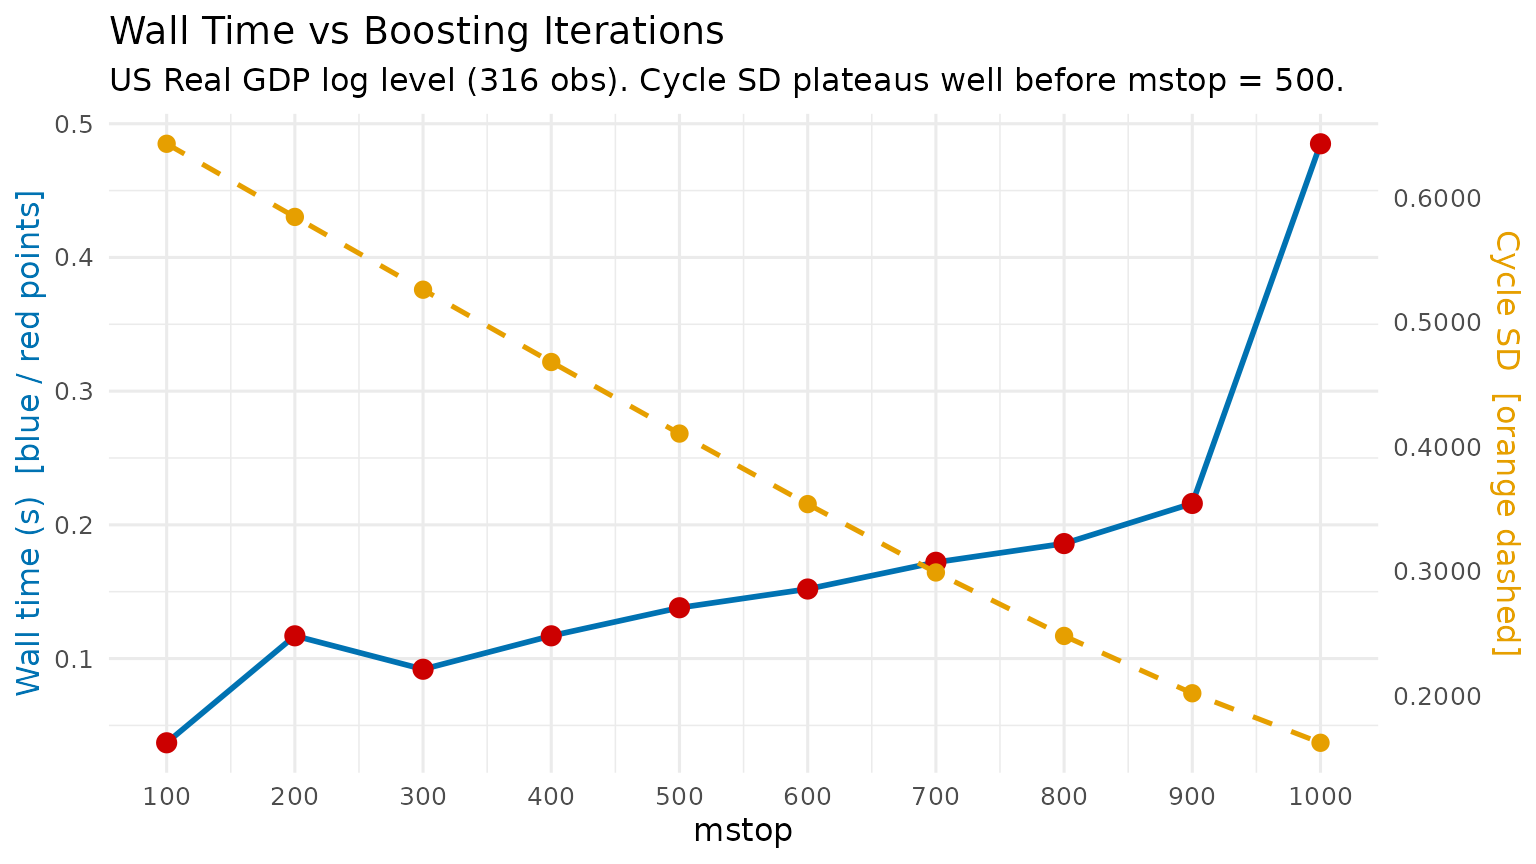
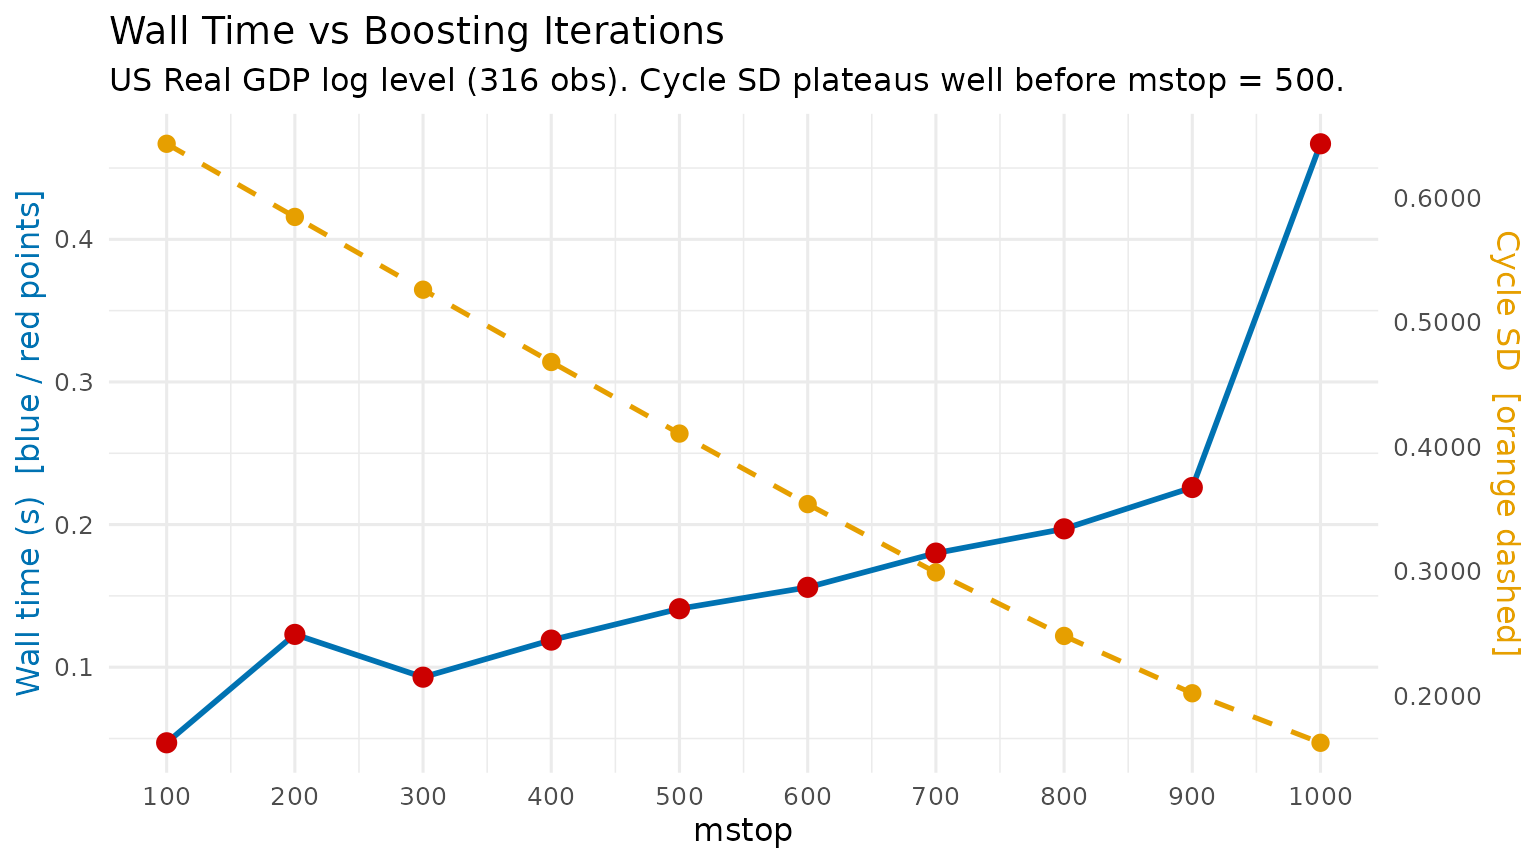
Deploying to gh-pages from @ michal0091/MacroFilters@11394b4d7b755e80bb9f119357e972726e6acea0 🚀

diff --git a/articles/tuning_mbh.html b/articles/tuning_mbh.html
@@ -336,52 +336,52 @@ boosting and the trend responds to the COVID shock.</li>
 <tbody>
 <tr class="odd">
 <td align="right">100</td>
-<td align="right">0.037</td>
+<td align="right">0.047</td>
 <td align="right">0.643260</td>
 </tr>
 <tr class="even">
 <td align="right">200</td>
-<td align="right">0.117</td>
+<td align="right">0.123</td>
 <td align="right">0.584503</td>
 </tr>
 <tr class="odd">
 <td align="right">300</td>
-<td align="right">0.092</td>
+<td align="right">0.093</td>
 <td align="right">0.526034</td>
 </tr>
 <tr class="even">
 <td align="right">400</td>
-<td align="right">0.117</td>
+<td align="right">0.119</td>
 <td align="right">0.467963</td>
 </tr>
 <tr class="odd">
 <td align="right">500</td>
-<td align="right">0.138</td>
+<td align="right">0.141</td>
 <td align="right">0.410462</td>
 </tr>
 <tr class="even">
 <td align="right">600</td>
-<td align="right">0.152</td>
+<td align="right">0.156</td>
 <td align="right">0.353805</td>
 </tr>
 <tr class="odd">
 <td align="right">700</td>
-<td align="right">0.172</td>
+<td align="right">0.180</td>
 <td align="right">0.298887</td>
 </tr>
 <tr class="even">
 <td align="right">800</td>
-<td align="right">0.186</td>
+<td align="right">0.197</td>
 <td align="right">0.247910</td>
 </tr>
 <tr class="odd">
 <td align="right">900</td>
-<td align="right">0.216</td>
+<td align="right">0.226</td>
 <td align="right">0.201850</td>
 </tr>
 <tr class="even">
 <td align="right">1000</td>
-<td align="right">0.485</td>
+<td align="right">0.467</td>
 <td align="right">0.162069</td>
 </tr>
 </tbody>

diff --git a/authors.html b/authors.html
@@ -49,17 +49,28 @@
       <p><small class="dont-index">Source: <a href="https://github.com/michal0091/MacroFilters/blob/main/inst/CITATION" class="external-link"><code>inst/CITATION</code></a></small></p>
 
       <p>Kinel M (2026).
+<em>MacroFilters: Robust Trend-Cycle Decomposition for Macroeconomic Time Series</em>.
+<a href="https://doi.org/10.32614/CRAN.package.MacroFilters" class="external-link">doi:10.32614/CRAN.package.MacroFilters</a>.
+R package version 0.1.0, <a href="https://CRAN.R-project.org/package=MacroFilters" class="external-link">https://CRAN.R-project.org/package=MacroFilters</a>.
+</p>
+      <pre>@Manual{,
+  title = {MacroFilters: Robust Trend-Cycle Decomposition for Macroeconomic Time Series},
+  author = {Michal Kinel},
+  year = {2026},
+  note = {R package version 0.1.0},
+  url = {https://CRAN.R-project.org/package=MacroFilters},
+  doi = {10.32614/CRAN.package.MacroFilters},
+}</pre>
+      <p>Kinel M (2026).
 “Robust Real-Time Macroeconomic Trend Extraction: A Gradient Boosting Approach.”
-<a href="https://doi.org/10.2139/ssrn.6371138" class="external-link">doi:10.2139/ssrn.6371138</a>.
-Working Paper, SSRN, <a href="https://doi.org/10.2139/ssrn.6371138" class="external-link">https://doi.org/10.2139/ssrn.6371138</a>.
+Working Paper, SSRN, <a href="https://ssrn.com/abstract=6371138" class="external-link">https://ssrn.com/abstract=6371138</a>.
 </p>
       <pre>@Unpublished{,
   title = {Robust Real-Time Macroeconomic Trend Extraction: A Gradient Boosting Approach},
   author = {Michal Kinel},
   year = {2026},
   note = {Working Paper, SSRN},
-  url = {https://doi.org/10.2139/ssrn.6371138},
-  doi = {10.2139/ssrn.6371138},
+  url = {https://ssrn.com/abstract=6371138},
 }</pre>
     </div>
 

diff --git a/index.html b/index.html
@@ -64,7 +64,8 @@
 <img src="logo.png" class="logo" alt=""><h1 id="macrofilters-">MacroFilters <a class="anchor" aria-label="anchor" href="#macrofilters-"></a>
 </h1>
 </div>
-<p><a href="https://lifecycle.r-lib.org/articles/stages.html#experimental" class="external-link"></a> <a href="https://github.com/michal0091/MacroFilters/actions/workflows/R-CMD-check.yaml" class="external-link"></a></p>
+<!-- badges: start -->
+
 <blockquote>
 <p><strong>Working Paper Available:</strong> The econometric methodology and mathematical proofs underlying this package are distributed via SSRN: <a href="https://doi.org/10.2139/ssrn.6371138" class="external-link">Robust Real-Time Macroeconomic Trend Extraction: A Gradient Boosting Approach</a>.</p>
 </blockquote>
@@ -153,6 +154,7 @@
   </main><aside class="col-md-3"><div class="links">
 <h2 data-toc-skip>Links</h2>
 <ul class="list-unstyled">
+<li><a href="https://cloud.r-project.org/package=MacroFilters" class="external-link">View on CRAN</a></li>
 <li><a href="https://github.com/michal0091/MacroFilters/" class="external-link">Browse source code</a></li>
 <li><a href="https://github.com/michal0091/MacroFilters/issues" class="external-link">Report a bug</a></li>
 </ul>
@@ -187,7 +189,15 @@
 </ul>
 </div>
 
-
+<div class="dev-status">
+<h2 data-toc-skip>Dev status</h2>
+<ul class="list-unstyled">
+<li><a href="https://lifecycle.r-lib.org/articles/stages.html#experimental" class="external-link"><img src="https://img.shields.io/badge/lifecycle-experimental-orange.svg" alt="Lifecycle: experimental"></a></li>
+<li><a href="https://github.com/michal0091/MacroFilters/actions/workflows/R-CMD-check.yaml" class="external-link"><img src="https://github.com/michal0091/MacroFilters/actions/workflows/R-CMD-check.yaml/badge.svg" alt="R-CMD-check"></a></li>
+<li><a href="https://CRAN.R-project.org/package=MacroFilters" class="external-link"><img src="https://www.r-pkg.org/badges/version/MacroFilters" alt="CRAN status"></a></li>
+<li><a href="https://doi.org/10.32614/CRAN.package.MacroFilters" class="external-link"><img src="https://zenodo.org/badge/DOI/10.32614/CRAN.package.MacroFilters.svg" alt="DOI"></a></li>
+</ul>
+</div>
 
   </aside>
 </div>

diff --git a/articles/introduction.html b/articles/introduction.html
@@ -209,7 +209,7 @@ and memory.</p>
 <span><span class="co">#&gt;    Observations : 100</span></span>
 <span><span class="co">#&gt;    Parameters   : lambda = 1600</span></span>
 <span><span class="co">#&gt;    Cycle range  : [-7.738, 9.143]  sd = 3.897</span></span>
-<span><span class="co">#&gt;    Compute time : 0.002 s</span></span></code></pre></div>
+<span><span class="co">#&gt;    Compute time : 0.003 s</span></span></code></pre></div>
 <p>The smoothing parameter
 <math display="inline" xmlns="http://www.w3.org/1998/Math/MathML"><semantics><mi>λ</mi><annotation encoding="application/x-tex">\lambda</annotation></semantics></math>
 is auto-selected from the series frequency via the Ravn-Uhlig (2002)
@@ -258,7 +258,7 @@ estimates by construction</p>
 <span><span class="co">#&gt;    Observations : 100</span></span>
 <span><span class="co">#&gt;    Parameters   : h = 8, p = 4</span></span>
 <span><span class="co">#&gt;    Cycle range  : [-13.41, 11.8]  sd = 7.212</span></span>
-<span><span class="co">#&gt;    Compute time : 0.001 s</span></span></code></pre></div>
+<span><span class="co">#&gt;    Compute time : 0.000 s</span></span></code></pre></div>
 <p>Note that the first
 <math display="inline" xmlns="http://www.w3.org/1998/Math/MathML"><semantics><mrow><mi>h</mi><mo>+</mo><mi>p</mi><mo>−</mo><mn>1</mn></mrow><annotation encoding="application/x-tex">h + p - 1</annotation></semantics></math>
 observations of the trend and cycle are <code>NA</code>, because there
@@ -483,7 +483,7 @@ a demanding real-world stress test for any trend filter.</p>
 <span><span class="co">#&gt;    Observations : 105</span></span>
 <span><span class="co">#&gt;    Parameters   : knots = 52, d = 0.01463, mstop = 500, mstop_initial = 500, nu = 0.1, df = 4, select_mstop = FALSE</span></span>
 <span><span class="co">#&gt;    Cycle range  : [-0.2231, 0.03137]  sd = 0.02963</span></span>
-<span><span class="co">#&gt;    Compute time : 0.095 s</span></span></code></pre></div>
+<span><span class="co">#&gt;    Compute time : 0.098 s</span></span></code></pre></div>
 <p><img src="introduction_files/figure-html/mbh-plot-1.png" class="r-plt" alt="" width="100%"></p>
 <hr>
 </div>
@@ -531,7 +531,7 @@ a demanding real-world stress test for any trend filter.</p>
 <span><span class="co">#&gt;    Observations : 105</span></span>
 <span><span class="co">#&gt;    Parameters   : knots = 52, d = 0.01463, mstop = 500, mstop_initial = 500, nu = 0.1, df = 4, select_mstop = FALSE</span></span>
 <span><span class="co">#&gt;    Cycle range  : [-0.2231, 0.03137]  sd = 0.02963</span></span>
-<span><span class="co">#&gt;    Compute time : 0.095 s</span></span></code></pre></div>
+<span><span class="co">#&gt;    Compute time : 0.098 s</span></span></code></pre></div>
 <p>The <code>print</code> method shows the method, the number of
 observations, the key parameters, the cycle range, and how long the
 filter took to run.</p>
@@ -566,7 +566,7 @@ filter took to run.</p>
 <span><span class="co">#&gt;  $ df            : int 4</span></span>
 <span><span class="co">#&gt;  $ select_mstop  : logi FALSE</span></span>
 <span><span class="co">#&gt;  $ boundary.knots: NULL</span></span>
-<span><span class="co">#&gt;  $ compute_time  : num 0.095</span></span></code></pre></div>
+<span><span class="co">#&gt;  $ compute_time  : num 0.098</span></span></code></pre></div>
 <p>The <code>meta</code> list stores every parameter used by the filter,
 making results fully reproducible from the object alone — no need to
 track arguments separately.</p>

diff --git a/reference/hamilton_filter.html b/reference/hamilton_filter.html
@@ -106,7 +106,7 @@ Filter. <em>Review of Economics and Statistics</em>, 100(5), 831–843.</p>
 <span class="r-out co"><span class="r-pr">#&gt;</span>    Observations : 200</span>
 <span class="r-out co"><span class="r-pr">#&gt;</span>    Parameters   : h = 8, p = 4</span>
 <span class="r-out co"><span class="r-pr">#&gt;</span>    Cycle range  : [-5.844, 6.032]  sd = 2.48</span>
-<span class="r-out co"><span class="r-pr">#&gt;</span>    Compute time : 0.001 s</span>
+<span class="r-out co"><span class="r-pr">#&gt;</span>    Compute time : 0.000 s</span>
 </code></pre></div>
     </div>
   </main><aside class="col-md-3"><nav id="toc" aria-label="Table of contents"><h2>On this page</h2>

diff --git a/reference/hp_filter.html b/reference/hp_filter.html
@@ -114,7 +114,7 @@ for the Frequency of Observations. <em>Review of Economics and Statistics</em>,
 <span class="r-out co"><span class="r-pr">#&gt;</span>    Observations : 200</span>
 <span class="r-out co"><span class="r-pr">#&gt;</span>    Parameters   : lambda = 1600</span>
 <span class="r-out co"><span class="r-pr">#&gt;</span>    Cycle range  : [-2.878, 3.83]  sd = 1.388</span>
-<span class="r-out co"><span class="r-pr">#&gt;</span>    Compute time : 0.003 s</span>
+<span class="r-out co"><span class="r-pr">#&gt;</span>    Compute time : 0.002 s</span>
 </code></pre></div>
     </div>
   </main><aside class="col-md-3"><nav id="toc" aria-label="Table of contents"><h2>On this page</h2>

diff --git a/authors.md b/authors.md
@@ -10,16 +10,29 @@
 Source:
 [`inst/CITATION`](https://github.com/michal0091/MacroFilters/blob/main/inst/CITATION)
 
+Kinel M (2026). *MacroFilters: Robust Trend-Cycle Decomposition for
+Macroeconomic Time Series*.
+[doi:10.32614/CRAN.package.MacroFilters](https://doi.org/10.32614/CRAN.package.MacroFilters).
+R package version 0.1.0,
+<https://CRAN.R-project.org/package=MacroFilters>.
+
+    @Manual{,
+      title = {MacroFilters: Robust Trend-Cycle Decomposition for Macroeconomic Time Series},
+      author = {Michal Kinel},
+      year = {2026},
+      note = {R package version 0.1.0},
+      url = {https://CRAN.R-project.org/package=MacroFilters},
+      doi = {10.32614/CRAN.package.MacroFilters},
+    }
+
 Kinel M (2026). “Robust Real-Time Macroeconomic Trend Extraction: A
-Gradient Boosting Approach.”
-[doi:10.2139/ssrn.6371138](https://doi.org/10.2139/ssrn.6371138).
-Working Paper, SSRN, <https://doi.org/10.2139/ssrn.6371138>.
+Gradient Boosting Approach.” Working Paper, SSRN,
+<https://ssrn.com/abstract=6371138>.
 
     @Unpublished{,
       title = {Robust Real-Time Macroeconomic Trend Extraction: A Gradient Boosting Approach},
       author = {Michal Kinel},
       year = {2026},
       note = {Working Paper, SSRN},
-      url = {https://doi.org/10.2139/ssrn.6371138},
-      doi = {10.2139/ssrn.6371138},
+      url = {https://ssrn.com/abstract=6371138},
     }

diff --git a/articles/tuning_mbh.md b/articles/tuning_mbh.md
@@ -249,16 +249,16 @@ knitr::kable(
 
 | mstop | Wall time (s) | Cycle SD |
 |------:|--------------:|---------:|
-|   100 |         0.037 | 0.643260 |
-|   200 |         0.117 | 0.584503 |
-|   300 |         0.092 | 0.526034 |
-|   400 |         0.117 | 0.467963 |
-|   500 |         0.138 | 0.410462 |
-|   600 |         0.152 | 0.353805 |
-|   700 |         0.172 | 0.298887 |
-|   800 |         0.186 | 0.247910 |
-|   900 |         0.216 | 0.201850 |
-|  1000 |         0.485 | 0.162069 |
+|   100 |         0.047 | 0.643260 |
+|   200 |         0.123 | 0.584503 |
+|   300 |         0.093 | 0.526034 |
+|   400 |         0.119 | 0.467963 |
+|   500 |         0.141 | 0.410462 |
+|   600 |         0.156 | 0.353805 |
+|   700 |         0.180 | 0.298887 |
+|   800 |         0.197 | 0.247910 |
+|   900 |         0.226 | 0.201850 |
+|  1000 |         0.467 | 0.162069 |
 
 MBH computational benchmark — US log GDP (316 obs) {.table}
 

diff --git a/articles/introduction.md b/articles/introduction.md
@@ -121,7 +121,7 @@ hp
 #>    Observations : 100
 #>    Parameters   : lambda = 1600
 #>    Cycle range  : [-7.738, 9.143]  sd = 3.897
-#>    Compute time : 0.002 s
+#>    Compute time : 0.003 s
 ```
 
 The smoothing parameter $`\lambda`$ is auto-selected from the series
@@ -168,7 +168,7 @@ ham
 #>    Observations : 100
 #>    Parameters   : h = 8, p = 4
 #>    Cycle range  : [-13.41, 11.8]  sd = 7.212
-#>    Compute time : 0.001 s
+#>    Compute time : 0.000 s
 ```
 
 Note that the first $`h + p - 1`$ observations of the trend and cycle
@@ -337,7 +337,7 @@ mbh_res
 #>    Observations : 105
 #>    Parameters   : knots = 52, d = 0.01463, mstop = 500, mstop_initial = 500, nu = 0.1, df = 4, select_mstop = FALSE
 #>    Cycle range  : [-0.2231, 0.03137]  sd = 0.02963
-#>    Compute time : 0.095 s
+#>    Compute time : 0.098 s
 ```
 
 ![](introduction_files/figure-html/mbh-plot-1.png)
@@ -365,7 +365,7 @@ mbh_res
 #>    Observations : 105
 #>    Parameters   : knots = 52, d = 0.01463, mstop = 500, mstop_initial = 500, nu = 0.1, df = 4, select_mstop = FALSE
 #>    Cycle range  : [-0.2231, 0.03137]  sd = 0.02963
-#>    Compute time : 0.095 s
+#>    Compute time : 0.098 s
 ```
 
 The `print` method shows the method, the number of observations, the key
@@ -402,7 +402,7 @@ str(mbh_res$meta)
 #>  $ df            : int 4
 #>  $ select_mstop  : logi FALSE
 #>  $ boundary.knots: NULL
-#>  $ compute_time  : num 0.095
+#>  $ compute_time  : num 0.098
 ```
 
 The `meta` list stores every parameter used by the filter, making

diff --git a/index.md b/index.md
@@ -1,8 +1,5 @@
 # MacroFilters
 
-[](https://lifecycle.r-lib.org/articles/stages.html#experimental)
-[](https://github.com/michal0091/MacroFilters/actions/workflows/R-CMD-check.yaml)
-
 > **Working Paper Available:** The econometric methodology and
 > mathematical proofs underlying this package are distributed via SSRN:
 > [Robust Real-Time Macroeconomic Trend Extraction: A Gradient Boosting

diff --git a/reference/hamilton_filter.md b/reference/hamilton_filter.md
@@ -65,5 +65,5 @@ print(result)
 #>    Observations : 200
 #>    Parameters   : h = 8, p = 4
 #>    Cycle range  : [-5.844, 6.032]  sd = 2.48
-#>    Compute time : 0.001 s
+#>    Compute time : 0.000 s
 ```

diff --git a/reference/hp_filter.md b/reference/hp_filter.md
@@ -71,5 +71,5 @@ print(result)
 #>    Observations : 200
 #>    Parameters   : lambda = 1600
 #>    Cycle range  : [-2.878, 3.83]  sd = 1.388
-#>    Compute time : 0.003 s
+#>    Compute time : 0.002 s
 ```